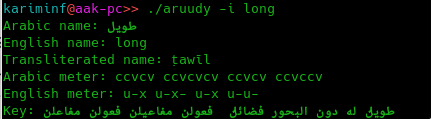
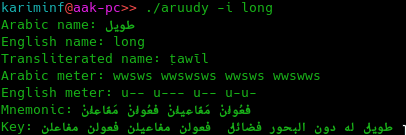
update docs and execs

Changed region(s): [[0.0, 0.0, 1.0, 1.0]]

diff --git a/exec/templates/index.htm b/exec/templates/index.htm
@@ -6,11 +6,9 @@
   </head>
   <body>
 
-      <p>
-          Arabic prosody
-      </p>
+      <h1>Arabic prosody</h1>
 
-      <h1>Info about available meters</h1>
+      <h2>Info about available meters</h2>
       <p>
           Using <b>"$host/ls"</b>.
           <br>Try this:
@@ -19,7 +17,7 @@
           </a>
       </p>
 
-      <h1>Info about a specific meter</h1>
+      <h2>Info about a specific meter</h2>
       <p>
           Using <b>"$host/info/[name]"</b>.
           The name can be in Arabic or English.
@@ -33,7 +31,7 @@
           </a>
       </p>
 
-      <h1>Processing a verse's part (shatr)</h1>
+      <h2>Processing a verse's part (shatr)</h2>
       <p>
           Using <b>"$host/shatr/[text]"</b>.
           <br>Try this:

diff --git a/aruudy/web/api.py b/aruudy/web/api.py
@@ -19,7 +19,7 @@
 # limitations under the License.
 #
 
-from flask import Flask, jsonify, render_template, request
+from flask import jsonify, Blueprint
 from flask_cors import CORS
 
 import sys, os
@@ -27,22 +27,23 @@ sys.path.insert(0, os.path.abspath(os.path.join(os.path.dirname(__file__), "../.
 
 from aruudy.poetry import prosody, meter
 
-app = Flask(__name__)
-CORS(app)
-app.config["JSON_AS_ASCII"] = False
+aruudy_api = Blueprint("aruudy_api", __name__, template_folder="templates")
+
+CORS(aruudy_api)
+
 #headers = {
 #    "Content-Type": "application/json",0
 #    "charset": "utf-8"
 #}
 
-@app.route("/info/<name>", methods=["GET", "POST"])
+@aruudy_api.route("/info/<name>", methods=["GET", "POST"])
 def info(name):
     b = meter.get_bahr(name)
     if b == None:
         return "Bahr not found", 404
     return jsonify(b), 200
 
-@app.route("/ls", methods=["GET", "POST"])
+@aruudy_api.route("/ls", methods=["GET", "POST"])
 def bahrs_list():
     # res = {
     # "arabic": meter.arabic_names(),
@@ -52,20 +53,28 @@ def bahrs_list():
     res = meter.get_names()
     return jsonify(res), 200
 
-@app.route("/shatr/<text>", methods=["GET", "POST"])
-@app.route("/shatr/<text>/<opt>", methods=["GET", "POST"])
+def xor_in(elem, set_elem, bool):
+    if bool:
+        return elem in set_elem
+    return elem not in set_elem
+
+@aruudy_api.route("/shatr/<text>", methods=["GET", "POST"])
+@aruudy_api.route("/shatr/<text>/<opt>", methods=["GET", "POST"])
 def process_shatr(text, opt=None):
     s = prosody.process_shatr(text).to_dict(bahr=True)
     res = 200
     if not s["bahr"]:
         res = 404
+    if opt:
+        exclude = opt.startswith("-")
+        set_keys = opt.replace("-","").split(",")
+        bahr = s["bahr"]
+        keys = [k for k in s.keys()]
+        for key in keys:
+            if xor_in(key, set_keys, exclude):
+                if key == "bahr":
+                    if s["bahr"]:
+                        s["bahr"] = s["bahr"]["name"]
+                else:
+                    del s[key]
     return jsonify(s), res
-
-
-@app.route("/", methods=["GET", "POST"])
-def route():
-    #res = '<a href="./ls">list meters</a>'
-    return render_template("index.htm", host = request.host_url)
-
-if __name__ == "__main__":
-    app.run(debug=True)

diff --git a/aruudy/poetry/meter.py b/aruudy/poetry/meter.py
@@ -88,8 +88,13 @@ class Bahr(object):
             self.keys.append(key)
         buhuur.append(self)
 
-        self.scansion = extract_meter(self.meter[0])
-        self.scansion["ameter"] = e2a_meter(self.scansion["emeter"])
+        self.used_scansion = extract_meter(self.meter[0])
+        self.used_scansion["ameter"] = e2a_meter(self.used_scansion["emeter"])
+        self.keys.append("used_scansion")
+
+        self.std_scansion = extract_meter(self.meter[0], used=False)
+        self.std_scansion["ameter"] = e2a_meter(self.std_scansion["emeter"])
+        self.keys.append("std_scansion")
 
     def __eq__(self, other):
         return self.__dict__ == other.__dict__
@@ -117,12 +122,6 @@ class Bahr(object):
         for key in self.keys:
             dic[key] = getattr(self, key)
         del dic["meter"]
-        """
-        m = []
-        for aruud in self.meter:
-            a = {}
-            for foot in aruud:
-        """
 
         return dic
 
@@ -447,7 +446,7 @@ def _get_values(attr1, attr2 = None):
 
 def get_names():
     return _get_values("name")
-    
+
 def arabic_names():
     return _get_values("name", "arabic")
 

diff --git a/setup.py b/setup.py
@@ -25,20 +25,20 @@ from os import path
 import io
 
 this_directory = path.abspath(path.dirname(__file__))
-with io.open(path.join(this_directory, 'README.md'), encoding='utf-8') as f:
+with io.open(path.join(this_directory, "README.md"), encoding="utf-8") as f:
     long_description = f.read()
 
 setup(
     name = "aruudy",
-    version = "0.3.0",
+    version = "0.4.0",
     author = "Abdelkrime Aries",
     author_email = "kariminfo0@gmail.com",
     description = ("Arabic poetry package"),
     license = "Apache-2.0",
-    keywords = "arabic nlp languages poetry",
+    keywords = "arabic nlp languages poetry prosody",
     url = "https://github.com/kariminf/aruudy",
-    packages=['aruudy', 'aruudy.poetry', 'aruudy.web'],
-    scripts=['exec/aruudy'],
+    packages=["aruudy", "aruudy.poetry", "aruudy.web"],
+    scripts=["exec/*"],
     long_description=long_description,
     long_description_content_type="text/markdown",
     # See https://pypi.python.org/pypi?%3Aaction=list_classifiers

diff --git a/aruudy/poetry/prosody.py b/aruudy/poetry/prosody.py
@@ -219,7 +219,7 @@ class Shatr(object):
         res = {
             "norm": self.norm,
             "prosody": self.prosody,
-            #"ameter": self.ameter,
+            "ameter": self.ameter,
             "emeter": self.emeter,
             "bahr": self.bahr,
             "parts": self.parts

diff --git a/README.md b/README.md
@@ -25,6 +25,13 @@ Aruudy is a light library for Arabic prosody (Aruud) or "Science of Poetry".
 - **Scansion [Wazn]**: (وزن) the weight of syllables, or the rhythmic structure
 - **Foot [Tafiila]**: (تفعيلة) the rhythmic parts which compose the scansion
 
+In Arabic scansion, we use two letters:
+- "w": watad [peg] (وتد); it represents a vowelled letter
+- "s": sabad [cord] (سبب); it represents an unvowelled letter
+
+In english scansion, we use two characters:
+- "u": short syllable;
+- "-": long syllable
 
 ## Features
 
@@ -40,6 +47,7 @@ Aruudy is a light library for Arabic prosody (Aruud) or "Science of Poetry".
     - Finding the arabic prosodic units "watad" and "sabab" based on haraka (vowel)
     - Finding the english prosodic units based on syllables
     - Detecting Arabic poetry meter
+    - Affording feet types and the parts according to these feet
 
 
 - web
@@ -107,55 +115,112 @@ aruudy -s "أَسِرْبَ القَطا هَلْ مَنْ يُعِيْرُ جَ
 
 ### Web Api
 
-The api uses **flask** which must be installed. To launch the server on your machine (locally), type:
+The api uses **flask** which must be installed. To test the api on your machine (locally), type:
 
 ```sh
-python aruudy/web/api.py
+aruudy_flask
 ```
 
 This will create a server on **http://127.0.0.1:5000**.
 
-The api has three request types:
+The api has these request types:
 
 #### $host/ls
 
-Returns a json object with names of available Arabic poetry meters (16 meters).
-The object has three lists:
+Returns a json list with names of available Arabic poetry meters (16 meters).
+The names are:
 - arabic: Arabic names of the 16 meters
 - english: English equivalent names
 - trans: transliterated names
 
 ![api ls](img/api.ls.png)
 
-#### $host/info/< name >
+#### $host/info/[name]
 
 Retrieve information about a meter by its name (arabic or english).
 It returns a json object describing the meter (bahr).
-- aname: Arabic name of the meter
-- ename: English name of the meter
-- trans: transliterated name
-- ameter: the meter used by Arabs as defined by Al-Khalil
-- emeter: the meter by syllables (European method)
+
+- name: an object containing the different names of the meter
+    - arabic: Arabic names of the 16 meters
+    - english: English equivalent names
+    - trans: transliterated names
+
+
+- std_scansion and used_scansion: the standard scansion of the bahr, and the used one.
+The two of them have the following elements:
+    - ameter: meter used by Arabs as defined by Al-Khalil
+    - emeter: the meter by syllables (European method)
+    - mnemonic: the feet of the hemistich
+    - type: the type of each foot
+
+
 - key: a verse which describs the bahr
 
+```
+$host/info/long
+```
+
 ![api info ar](img/api.info.ar.png)
+
+```
+$host/info/complete
+```
+
 ![api info en](img/api.info.en.png)
 
-#### $host/shatr/< text >
+#### $host/shatr/[text]
 
 Used to find the meter of the given text (a shatr: part of the verse). It returns a json object with these information:
-- text: the original text
 - norm: the text normalized: no tatweel, fix some diacretics
 - prosody: prosody writing (الكتابة العروضية) of the text
 - ameter: the arabic meter of the text
 - emeter: the english/european meter of the text
 - bahr: the name of the bahr
     - if not found, it is a string "None"
-    - if found, it is a json object with "aname", "ename" and "trans"
+    - if found, it is a json object with all the bahr's description
+
+- parts: the text divided into parts accoding to the feet (as a list). each element is an object with the following information:
+    - emeter: foot's english meter
+    - mnemonic: foot's mnemonic
+    - part: part of the text that fits the foot
+    - type: the type of the foot
+
+```
+$host/shatr/فَـلا%20تَظُـنّـنّ%20أنّ%20اللّيْـثَ%20يَبْتَسِـمُ
+```
 
 ![api shatr found](img/api.shatr.found.png)
+
+```
+$host/shatr/فَـلا%20تَظُـنّـنّ%20أنّ
+```
+
 ![api shatr none](img/api.shatr.none.png)
 
+#### $host/shatr/[text]/[opt]
+
+Same as **$host/shatr/[text]**, but you can choose which elements to include in the response by separating their names with a comma (","). If you ommit "bahr", it will return just the names of the meter and not all its information. Example:
+
+```
+$host/shatr/فَـلا%20تَظُـنّـنّ%20أنّ%20اللّيْـثَ%20يَبْتَسِـمُ/ameter
+```
+![api shatr incl](img/api.shatr.incl.png)
+
+This will return the names of the meter with the texts arabic scansion.
+
+If you want to include all elements and ommit some, you can put a minus in front of your options list. Example:
+
+```
+$host/shatr/فَـلا%20تَظُـنّـنّ%20أنّ%20اللّيْـثَ%20يَبْتَسِـمُ/-parts,bahr
+```
+![api shatr excl](img/api.shatr.excl.png)
+
+If you put "none", you will receive just the names of the meter.
+
+```
+$host/shatr/فَـلا%20تَظُـنّـنّ%20أنّ%20اللّيْـثَ%20يَبْتَسِـمُ/none
+```
+![api shatr nopt](img/api.shatr.nopt.png)
 
 ### Programming
 
@@ -170,9 +235,6 @@ from aruudy.poetry import prosody
 text = u'أَسِرْبَ القَطا هَلْ مَنْ يُعِيْرُ جَناحَهُ'
 
 shatr = meter.process_shatr(text)
-
-#original text
-print("original: " + shatr.orig)
 
 #Normalized text
 print("normalized: " + shatr.norm)
@@ -189,16 +251,14 @@ print("western scansion: " + shatr.emeter)
 #get the bahr: it has aname, ename, trans,
 b = shatr.bahr
 
-# Bahr arabic name
-print("western scansion: " + b.aname)
-
 ```
 
 You can process a text with sub-functions (without using **meter.process_shatr** which uses them all):
 - **meter.normalize(text)**: returns a normalized text; deletes tatweel and fix some diacretics problems
 - **meter.prosody_form(text)**: returns the prosody writing (الكتابة العروضية) of the text
 - **meter.get_ameter(text)**: returns a string of arabic meter  with "v" as haraka "c" as sukuun
-- **meter.get_emeter(ameter)**: returns european meter from a given arabic meter
+
+**TODO**: edit a full doc about the api
 
 ## Recommendations
 
